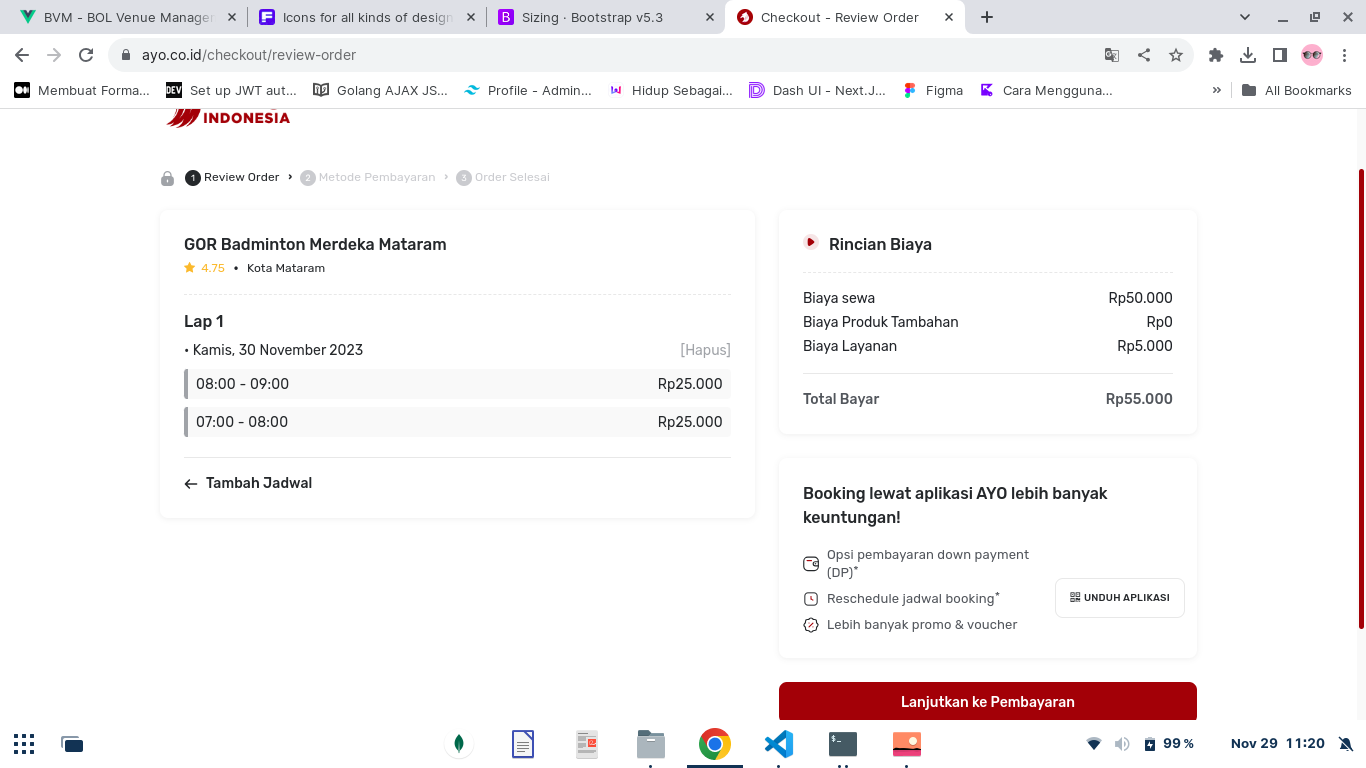
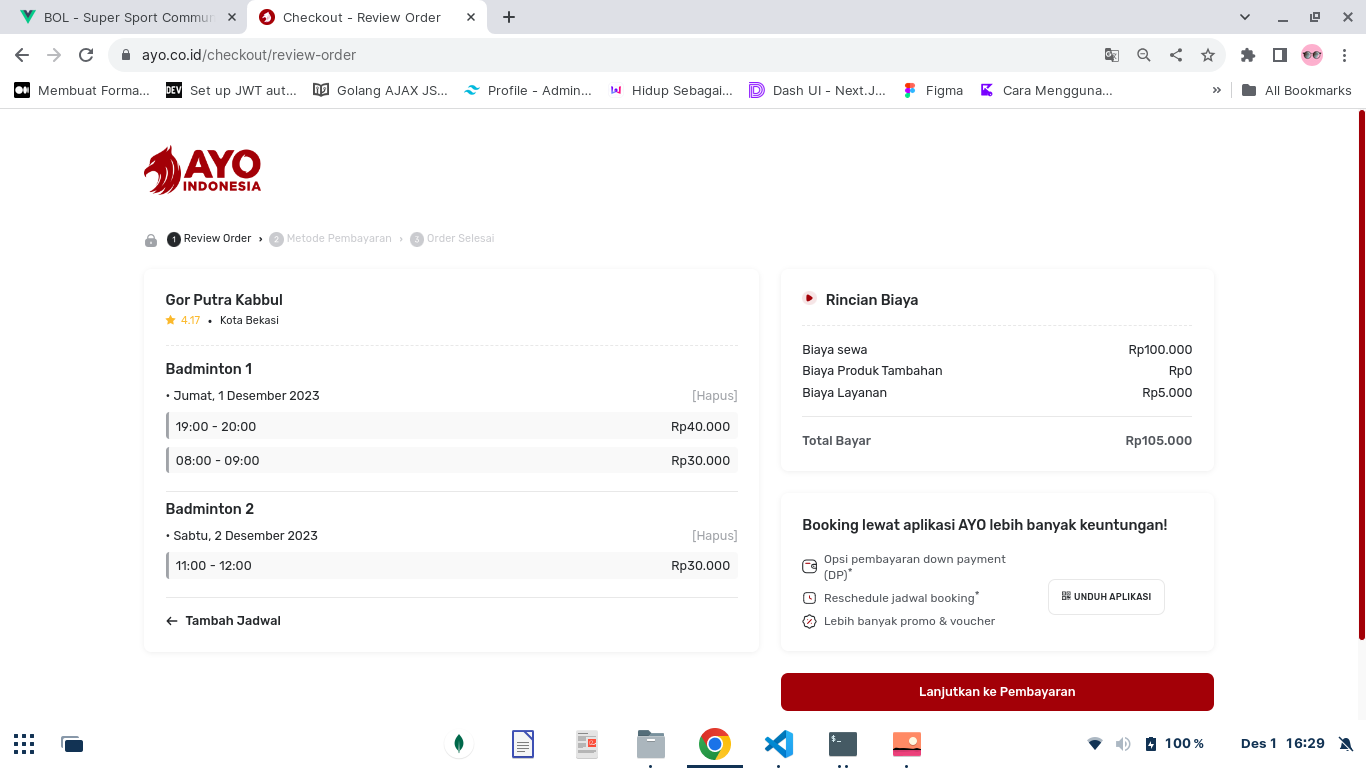
romabak model user/cart dan ganti UI cart dan add cart

diff --git a/server/controllers/user-controller.js b/server/controllers/user-controller.js
@@ -117,26 +117,73 @@ const getCartByUserId = async (req, res) => {
 };
 
 const addCartByUserId = async (req, res, next) => {
-   const { venue, price, field, date, start, end } = req.body;
+   const { venue, field, date, start, end, price } = req.body;
    const { _id } = req.params;
 
    try {
-      await User.findOneAndUpdate(
-         { _id },
-         {
-            $push: {
-               carts: {
-                  _id: new mongoose.Types.ObjectId(),
-                  venue,
-                  price,
-                  field,
-                  date,
-                  start,
-                  end,
+      const user = await User.findOne({ _id });
+
+      if (user.carts.length < 1 || user.carts.venue != venue) {
+         await User.findOneAndUpdate(
+            { _id },
+            {
+               $set: {
+                  carts: {
+                     _id: new mongoose.Types.ObjectId(),
+                     venue,
+                     fields: {
+                        name: field,
+                        added: {
+                           date,
+                           start,
+                           end,
+                           price,
+                        },
+                     },
+                  },
                },
-            },
+            }
+         );
+      } else {
+         const fields = user.carts.fields;
+
+         const found = fields.find(({ name }) => name == field);
+
+         if (found) {
+            await User.findOneAndUpdate(
+               { "carts.fields._id": found._id },
+               {
+                  $addToSet: {
+                     "carts.fields.$[pl].added": { date, start, end, price },
+                  },
+               },
+               {
+                  arrayFilters: [
+                     {
+                        "pl.name": found.name,
+                     },
+                  ],
+               }
+            );
+         } else {
+            await User.findOneAndUpdate(
+               { _id },
+               {
+                  $push: {
+                     "carts.fields": {
+                        name: field,
+                        added: {
+                           date,
+                           start,
+                           end,
+                           price,
+                        },
+                     },
+                  },
+               }
+            );
          }
-      );
+      }
 
       next();
    } catch (err) {

diff --git a/client/src/components/Cart.vue b/client/src/components/Cart.vue
@@ -5,19 +5,19 @@
          <button type="button" class="btn-close" data-bs-dismiss="offcanvas" aria-label="Close" @click="closeOffcanvas"></button>
       </div>
       <div class="offcanvas-body" style="display: grid">
-         <div v-if="store.carts.length < 1">
+         <div v-if="!store.carts?.fields">
             <p class="text-opacity-50 text-center fs-6">Belum ada jadwal di keranjang</p>
          </div>
 
          <div v-else>
-            <div class="row" v-for="cart in store.carts" :key="cart._id">
-               <h6 class="fw-semibold" style="margin-left: -10px !important">{{ cart.field }}</h6>
-               <div class="col-12 cart-schedule bg-body-tertiary rounded-2 py-2 mb-3 overflow-hidden">
+            <div class="row mb-2" v-for="cart in store.carts.fields" :key="cart._id">
+               <h6 class="fw-semibold" style="margin-left: -10px !important">{{ cart.name }}</h6>
+               <div class="col-12 cart-schedule bg-body-tertiary rounded-2 py-2 mb-2 overflow-hidden" v-for="info in cart.added">
                   <div class="row">
                      <div class="col-10">
-                        <div class="fw-medium">{{ cart.date }} <i class="bx bxs-circle d-inline-block" style="font-size: 5px !important; transform: translateY(-3px)"></i> {{ startHour(cart.start) }} - {{ endHour(cart.end) }}</div>
+                        <div class="fw-medium">{{ info.date }} <i class="bx bxs-circle d-inline-block" style="font-size: 5px !important; transform: translateY(-3px)"></i> {{ startHour(info.start) }} - {{ endHour(info.end) }}</div>
                         <div class="">
-                           {{ printPrice(cart.price) }}
+                           {{ printPrice(info.price) }}
                         </div>
                      </div>
                      <div class="col-2 my-auto"><i class="bx bx-trash-alt fs-4 pointer" @click="deleteCart(cart._id)"></i></div>

diff --git a/client/src/components/Navbar.vue b/client/src/components/Navbar.vue
@@ -7,7 +7,7 @@
          </RouterLink>
          <div class="d-flex align-items-center">
             <i class="bx bx-cart fs-4 me-3 cart-mobile" data-bs-toggle="offcanvas" data-bs-target="#offcanvasNavbar" aria-controls="offcanvasNavbar" aria-label="Toggle navigation">
-               <span class="cart-count bg-navy text-center text-white fw-bold rounded-circle">{{ store.carts.length }}</span>
+               <span class="cart-count bg-navy text-center text-white fw-bold rounded-circle">{{ cartCount }}</span>
             </i>
             <button class="navbar-toggler" type="button" data-bs-toggle="collapse" data-bs-target="#navbarNavAltMarkup" aria-controls="navbarNavAltMarkup" aria-expanded="false" aria-label="Toggle navigation">
                <span class="navbar-toggler-icon"></span>
@@ -21,7 +21,7 @@
                </div>
                <div class="ms-0 navbar-left d-flex align-items-center">
                   <i class="bx bx-cart fs-4 cart-desktop pointer pe-3 border-end" @click="offcanvas = !offcanvas">
-                     <span class="cart-count bg-navy text-center text-white fw-bold rounded-circle">{{ store.carts.length }}</span>
+                     <span class="cart-count bg-navy text-center text-white fw-bold rounded-circle">{{ cartCount }}</span>
                   </i>
                   <div v-if="store.auth" @click="dropdown = !dropdown" class="px-3 d-flex align-items-center pointer" style="position: relative">
                      <i class="bx bx-user-circle fs-3"></i>
@@ -74,6 +74,16 @@ export default {
    },
    created() {
       this.currentPage = this.$route.name;
+   },
+   computed: {
+      cartCount() {
+         if (store.carts?.fields) {
+            const count = store.carts?.fields.reduce((total, value) => value.added.length + total, 0);
+            return count;
+         } else {
+            return 0;
+         }
+      },
    },
 };
 </script>

diff --git a/server/models/user-model.js b/server/models/user-model.js
@@ -25,17 +25,34 @@ const userSchema = new Schema({
          },
       },
    ],
-   carts: [
-      {
-         _id: mongoose.Schema.Types.ObjectId,
-         venue: String,
-         price: Number,
-         field: String,
-         date: String,
-         start: Number,
-         end: Number,
-      },
-   ],
+   // carts: [
+   //    {
+   //       _id: mongoose.Schema.Types.ObjectId,
+   //       venue: String,
+   //       price: Number,
+   //       field: String,
+   //       date: String,
+   //       start: Number,
+   //       end: Number,
+   //    },
+   // ],
+   carts: {
+      _id: mongoose.Schema.Types.ObjectId,
+      venue: String,
+      fields: [
+         {
+            name: String,
+            added: [
+               {
+                  date: String,
+                  start: Number,
+                  end: Number,
+                  price: Number,
+               },
+            ],
+         },
+      ],
+   },
 });
 
 const User = mongoose.model("User", userSchema);

diff --git a/client/src/views/guest/components/BookingTime.vue b/client/src/views/guest/components/BookingTime.vue
@@ -25,9 +25,10 @@ export default {
    },
    async created() {
       const date = dateString(this.time.start);
+      const { added } = store.carts.fields.find(({ name }) => name == this.field.name);
 
-      for (let j = 0; j < store.carts.length; j++) {
-         if (store.carts[j].field == this.field.name && store.carts[j].start == this.time.start && store.carts[j].date == `${date[0]}, ${date[2]} ${date[1]} ${date[3]}`) {
+      for (let i = 0; i < added.length; i++) {
+         if (added[i].start == this.time.start) {
             return (this.addBooking = true);
          }
       }
@@ -72,11 +73,11 @@ export default {
 
          const data = {
             venue: this.venue.name,
-            price: this.venue.price,
             field: this.field.name,
             date: `${date[0]}, ${date[2]} ${date[1]} ${date[3]}`,
             start: this.time.start,
             end: this.time.end,
+            price: this.venue.price,
          };
 
          try {

diff --git a/client/src/utils/store.js b/client/src/utils/store.js
@@ -29,8 +29,8 @@ export const store = reactive({
          this.userMenu.status = ["Semua Status", "Menunggu Pembayaran", "Berhasil", "Dibatalkan", "Selesai"];
       }
    },
-   carts: [],
-   setCarts(data = []) {
+   carts: {},
+   setCarts(data = {}) {
       this.carts = data;
    },
    alert: {
